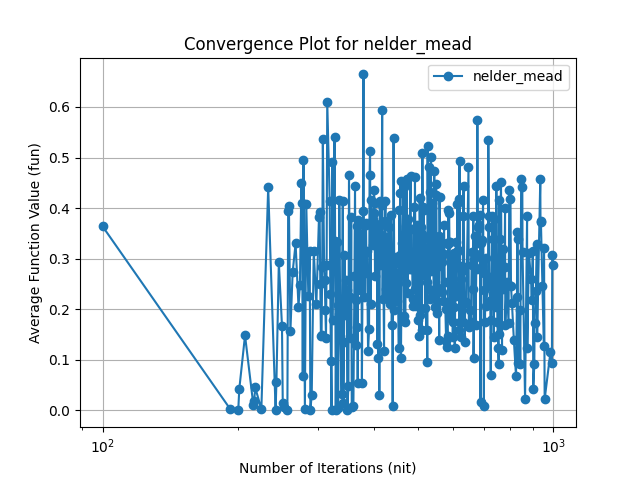
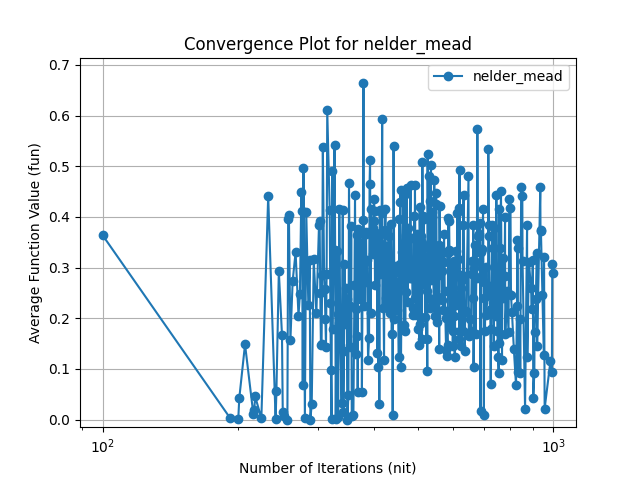
fix: ensure y-axis starts at 0 for all plots

diff --git a/Code/entangled_qnn_training-main/convergence_plots.py b/Code/entangled_qnn_training-main/convergence_plots.py
@@ -101,6 +101,7 @@ def plot_optimizer_data(optimizer_data, optimizer_save_path):
             plt.title(f'Convergence Plot for {optimizer}')
             plt.legend()
             plt.xscale('log')
+            plt.ylim(bottom=-0.015,  top=max(fun) + 0.05)
             plt.grid(True)
             file_path = os.path.join(optimizer_save_path, f'{optimizer}_convergence_plot.png')
             plt.savefig(file_path)
@@ -117,6 +118,7 @@ def plot_category_data(nit, fun, category_name, category_save_path):
         plt.title(f'Convergence Plot for {category_name}')
         plt.legend()
         plt.xscale('log')
+        plt.ylim(bottom=-0.02) 
         plt.grid(True)
         file_path = os.path.join(category_save_path, f'{category_name}_convergence_plot.png')
         plt.savefig(file_path)
